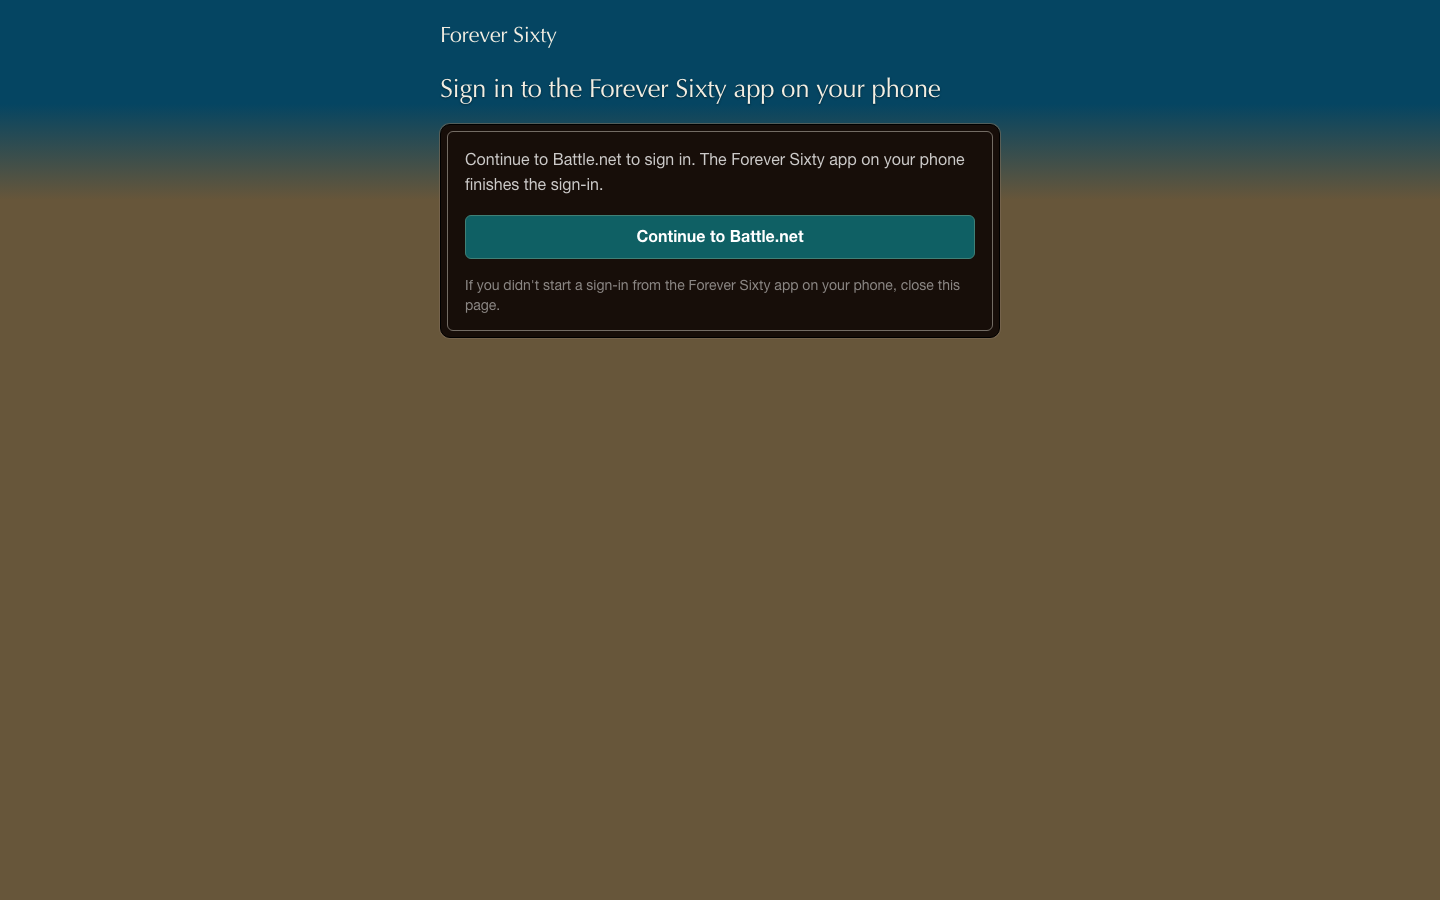
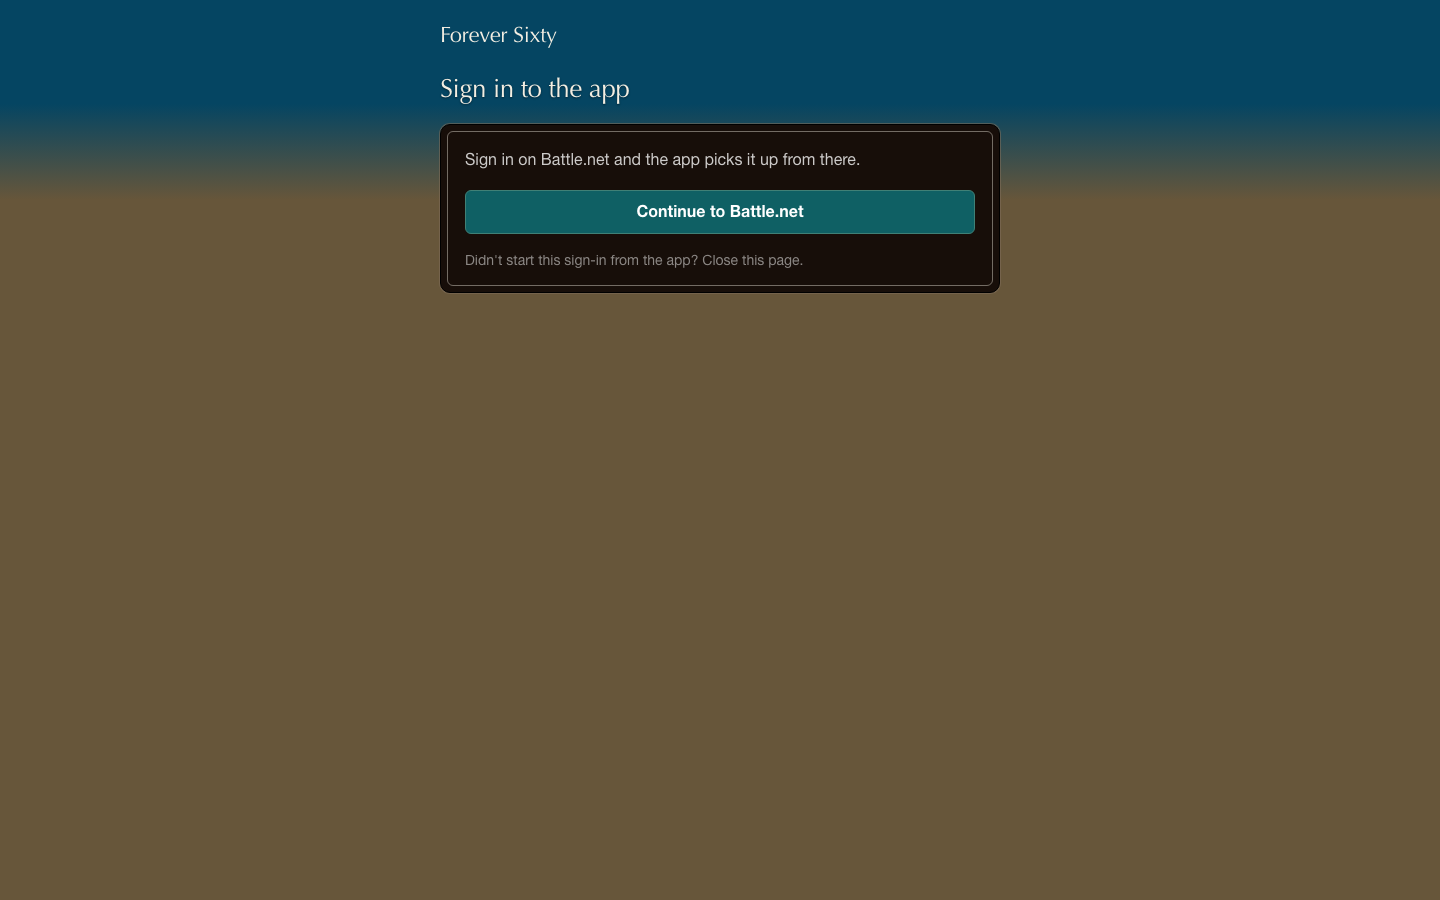
fix(api): review round 1: the confirm page and the not-found sentence say it once
- Confirm page: "Sign in to the app" under the wordmark, "Sign in on Battle.net and the app
  picks it up from there.", "Didn't start this sign-in from the app? Close this page."; the
  title wraps balanced. Mock re-rendered from the same copy.
- Not found: "That link does not point at a saved build." (the mistyped clause is gone).
- Round 1 verdicts and captures in design/reviews/2026-11-10-h-api-html.

Claude-Session: https://claude.ai/code/session_01Wrtayzxz2jvhjren4pWihn

Changed region(s): [[0.2812, 0.1556, 0.7188, 0.3733], [0.4062, 0.0933, 0.6562, 0.1244]]

diff --git a/design/mocks/directions/html/app-confirm.html b/design/mocks/directions/html/app-confirm.html
@@ -4,7 +4,7 @@ body{margin:0;min-height:100vh;background:#67563a;color:rgba(255,255,255,.78);fo
 .band{background:linear-gradient(#054562 0,#054562 calc(100% - 96px),#67563a 100%);padding:0 18px 96px}
 .col{max-width:560px;margin:0 auto}
 .mark{display:block;padding:18px 0 0;font:400 22px/1 'Marcellus',Optima,Candara,Georgia,serif;color:#f3eee2;letter-spacing:-.015em}
-h1{margin:0;padding:22px 0 0;font:400 21px/25px 'Marcellus',Optima,Candara,Georgia,serif;letter-spacing:-.015em;color:#f3eee2;text-shadow:0 1px 2px rgba(0,0,0,.45)}
+h1{margin:0;padding:22px 0 0;font:400 21px/25px 'Marcellus',Optima,Candara,Georgia,serif;letter-spacing:-.015em;color:#f3eee2;text-shadow:0 1px 2px rgba(0,0,0,.45);text-wrap:balance}
 main{margin-top:-76px;padding:0 18px 40px}
 .panel{position:relative;background:#170e09;border:1px solid #000;box-shadow:0 0 0 1px rgba(130,112,91,.55);border-radius:10px;padding:22px 24px}
 .panel::before{content:"";position:absolute;inset:6px;border:1px solid rgba(243,238,226,.42);border-radius:6px;pointer-events:none}
@@ -13,4 +13,4 @@ main{margin-top:-76px;padding:0 18px 40px}
   border-radius:6px;background:#0f6064;color:#fff;font-weight:600;text-decoration:none}
 .note{margin-top:16px!important;font-size:14px;line-height:20px;color:rgba(255,255,255,.5)}
 @media(min-width:768px){.mark{padding-top:24px}h1{padding-top:28px;font-size:26px;line-height:30px}}
-</style></head><body><div class="band"><div class="col"><span class="mark">Forever Sixty</span><h1>Sign in to the Forever Sixty app on your phone</h1></div></div><main><div class="col panel"><p>Continue to Battle.net to sign in. The Forever Sixty app on your phone finishes the sign-in.</p><a class="go" href="#">Continue to Battle.net</a><p class="note">If you didn&#x27;t start a sign-in from the Forever Sixty app on your phone, close this page.</p></div></main></body></html>
+</style></head><body><div class="band"><div class="col"><span class="mark">Forever Sixty</span><h1>Sign in to the app</h1></div></div><main><div class="col panel"><p>Sign in on Battle.net and the app picks it up from there.</p><a class="go" href="#">Continue to Battle.net</a><p class="note">Didn&#x27;t start this sign-in from the app? Close this page.</p></div></main></body></html>

diff --git a/web/tests/e2e/fixtures/shared-build/missing.html b/web/tests/e2e/fixtures/shared-build/missing.html
@@ -33,7 +33,7 @@
 </div>
 <div class="b-form">
 <div class="b-panel ui-surface ui-framed" data-region="plate" data-testid="b-message-panel">
-<p data-testid="b-message-sentence">That link does not point at a saved build. It may have been mistyped. <span data-testid="b-message-ask">Ask whoever sent it for a fresh link.</span></p>
+<p data-testid="b-message-sentence">That link does not point at a saved build. <span data-testid="b-message-ask">Ask whoever sent it for a fresh link.</span></p>
 <div class="b-acts">
 <a href="/planner" class="rounded-field inline-flex items-center justify-center gap-2 border px-5 button-label whitespace-nowrap transition-[filter,background-color,border-color] duration-[120ms] focus-visible:outline-2 focus-visible:outline-offset-2 focus-visible:outline-gold disabled:cursor-not-allowed disabled:not-aria-busy:opacity-45 aria-disabled:cursor-not-allowed aria-disabled:not-aria-busy:opacity-45 aria-pressed:border-selected-mark aria-pressed:ring-1 aria-pressed:ring-selected-mark border-teal-edge text-strong bg-teal [@media(hover:hover)_and_(pointer:fine)]:hover:bg-teal-edge active:translate-y-px active:brightness-[.92] h-11">Open the build planner</a>
 <a class="text-gold font-semibold hover:text-gold-hover active:text-gold-hover rounded-field focus-visible:outline-2 focus-visible:outline-offset-2 focus-visible:outline-gold" href="/guides">Talent builds in the class guides ›</a>

diff --git a/api/internal/auth/app_confirm.go b/api/internal/auth/app_confirm.go
@@ -15,10 +15,10 @@ var appConfirmCopy = struct {
 	Title, Heading, Body, Button, NotYou string
 }{
 	Title:   "Sign in to the Forever Sixty app",
-	Heading: "Sign in to the Forever Sixty app on your phone",
-	Body:    "Continue to Battle.net to sign in. The Forever Sixty app on your phone finishes the sign-in.",
+	Heading: "Sign in to the app",
+	Body:    "Sign in on Battle.net and the app picks it up from there.",
 	Button:  "Continue to Battle.net",
-	NotYou:  "If you didn't start a sign-in from the Forever Sixty app on your phone, close this page.",
+	NotYou:  "Didn't start this sign-in from the app? Close this page.",
 }
 
 // appConfirmPage is self-contained: no script, no form, no image, no font, nothing fetched.
@@ -63,7 +63,7 @@ body{margin:0;min-height:100vh;background:%[1]s;color:%[2]s;font:16px/1.55 %[3]s
 .band{background:linear-gradient(%[4]s 0,%[4]s calc(100%% - 96px),%[1]s 100%%);padding:0 18px 96px}
 .col{max-width:560px;margin:0 auto}
 .mark{display:block;padding:18px 0 0;font:400 22px/1 %[5]s;color:%[6]s;letter-spacing:-.015em}
-h1{margin:0;padding:22px 0 0;font:400 21px/25px %[5]s;letter-spacing:-.015em;color:%[6]s;text-shadow:0 1px 2px rgba(0,0,0,.45)}
+h1{margin:0;padding:22px 0 0;font:400 21px/25px %[5]s;letter-spacing:-.015em;color:%[6]s;text-shadow:0 1px 2px rgba(0,0,0,.45);text-wrap:balance}
 main{margin-top:-76px;padding:0 18px 40px}
 .panel{position:relative;background:%[7]s;border:1px solid #000;box-shadow:0 0 0 1px %[8]s;border-radius:%[9]dpx;padding:22px 24px}
 .panel::before{content:"";position:absolute;inset:6px;border:1px solid %[10]s;border-radius:%[11]dpx;pointer-events:none}

diff --git a/design/mocks/directions/app_confirm.py b/design/mocks/directions/app_confirm.py
@@ -33,7 +33,7 @@ body{{margin:0;min-height:100vh;background:{TOKENS['earth']};color:{TOKENS['text
 .band{{background:linear-gradient({TOKENS['band']} 0,{TOKENS['band']} calc(100% - 96px),{TOKENS['earth']} 100%);padding:0 18px 96px}}
 .col{{max-width:560px;margin:0 auto}}
 .mark{{display:block;padding:18px 0 0;font:400 22px/1 {TITLE_FONT};color:{TOKENS['cream']};letter-spacing:-.015em}}
-h1{{margin:0;padding:22px 0 0;font:400 21px/25px {TITLE_FONT};letter-spacing:-.015em;color:{TOKENS['cream']};text-shadow:0 1px 2px rgba(0,0,0,.45)}}
+h1{{margin:0;padding:22px 0 0;font:400 21px/25px {TITLE_FONT};letter-spacing:-.015em;color:{TOKENS['cream']};text-shadow:0 1px 2px rgba(0,0,0,.45);text-wrap:balance}}
 main{{margin-top:-76px;padding:0 18px 40px}}
 .panel{{position:relative;background:{TOKENS['card']};border:1px solid #000;box-shadow:0 0 0 1px rgba(130,112,91,.55);border-radius:{R_LG}px;padding:22px 24px}}
 .panel::before{{content:"";position:absolute;inset:6px;border:1px solid {FRAME_LINE};border-radius:{R_LG - 4}px;pointer-events:none}}

diff --git a/api/internal/site/page_test.go b/api/internal/site/page_test.go
@@ -85,7 +85,7 @@ func TestNotFoundPageOffersThePlannerTheGuidesAndAsksTheSender(t *testing.T) {
 		`<div class="b-band ui-band ui-band-end full-bleed" data-art="band">`,
 		`<h1 class="b-title" data-testid="page-title">Build not found</h1>`,
 		`<div class="b-panel ui-surface ui-framed" data-region="plate" data-testid="b-message-panel">`,
-		`data-testid="b-message-sentence">That link does not point at a saved build. It may have been mistyped. ` +
+		`data-testid="b-message-sentence">That link does not point at a saved build. ` +
 			`<span data-testid="b-message-ask">Ask whoever sent it for a fresh link.</span></p>`,
 		`<a href="https://foreversixty.gg/planner" class="` + primaryButtonClass + `">Open the build planner</a>`,
 		`<a class="` + linkClass + `" href="https://foreversixty.gg/guides">Talent builds in the class guides ›</a>`,

diff --git a/api/internal/site/handler.go b/api/internal/site/handler.go
@@ -59,7 +59,7 @@ func (d Deps) page(w http.ResponseWriter, r *http.Request) {
 	switch {
 	case errors.Is(err, builds.ErrNotFound):
 		d.writeMessage(w, r, http.StatusNotFound, "Build not found",
-			"That link does not point at a saved build. It may have been mistyped.")
+			"That link does not point at a saved build.")
 		return
 	case err != nil:
 		d.logger().Error("site", "id", httpx.RequestIDFrom(r.Context()), "op", "page", "err", err)

diff --git a/design/reviews/2026-11-10-h-api-html/round-1.md b/design/reviews/2026-11-10-h-api-html/round-1.md
@@ -1,0 +1,23 @@
+# h-api-html review, round 1
+
+Captures: after/ (side-b-* = parity mock left, build right; app-confirm-* and mock-app-confirm-*), before/.
+
+## ux-designer: VERDICT: SHIP
+No blockers. Nits: the mock's nav icons and the 390 tab style differ from the built chrome (mock library, not this lane);
+balance the confirm title so "phone" is not orphaned; confirm the button has focus-visible and active states (it does);
+the plate's dark fringe at 390 on the not-found page is faint.
+
+## ai-slop-reviewer: VERDICT: PASS WITH FIXES
+- Confirm page copy repeats "Forever Sixty app on your phone" three times: cut the body and the not-you line. FIXED.
+- Not-found: "It may have been mistyped." states the obvious. FIXED (handler.go).
+- "Paste in game with /fs." and the "Gear for 60" label on /b/{id}: the planner island's own panels (web planner
+  components), not this lane's files. Follow-up for the planner owner.
+- Inner frame on the single-paragraph plates: kept. It is the system's framed panel, the shape of the gated
+  b-unavailable.astro and directions mock b4-unavailable, on the page's one featured panel (spec: frame two or three
+  panels per page, the lead one first).
+
+## wow-player: VERDICT: SHIP
+Copy-level notes. Confirm page repeats "on your phone": FIXED (title "Sign in to the app" under the wordmark, body "Sign
+in on Battle.net and the app picks it up from there.", not-you "Didn't start this sign-in from the app? Close this
+page."). Planner notes (name the matched guide build, /fs before the addon link, 41 views at 390 only, point order
+column heads 0..9) are planner-island follow-ups.
